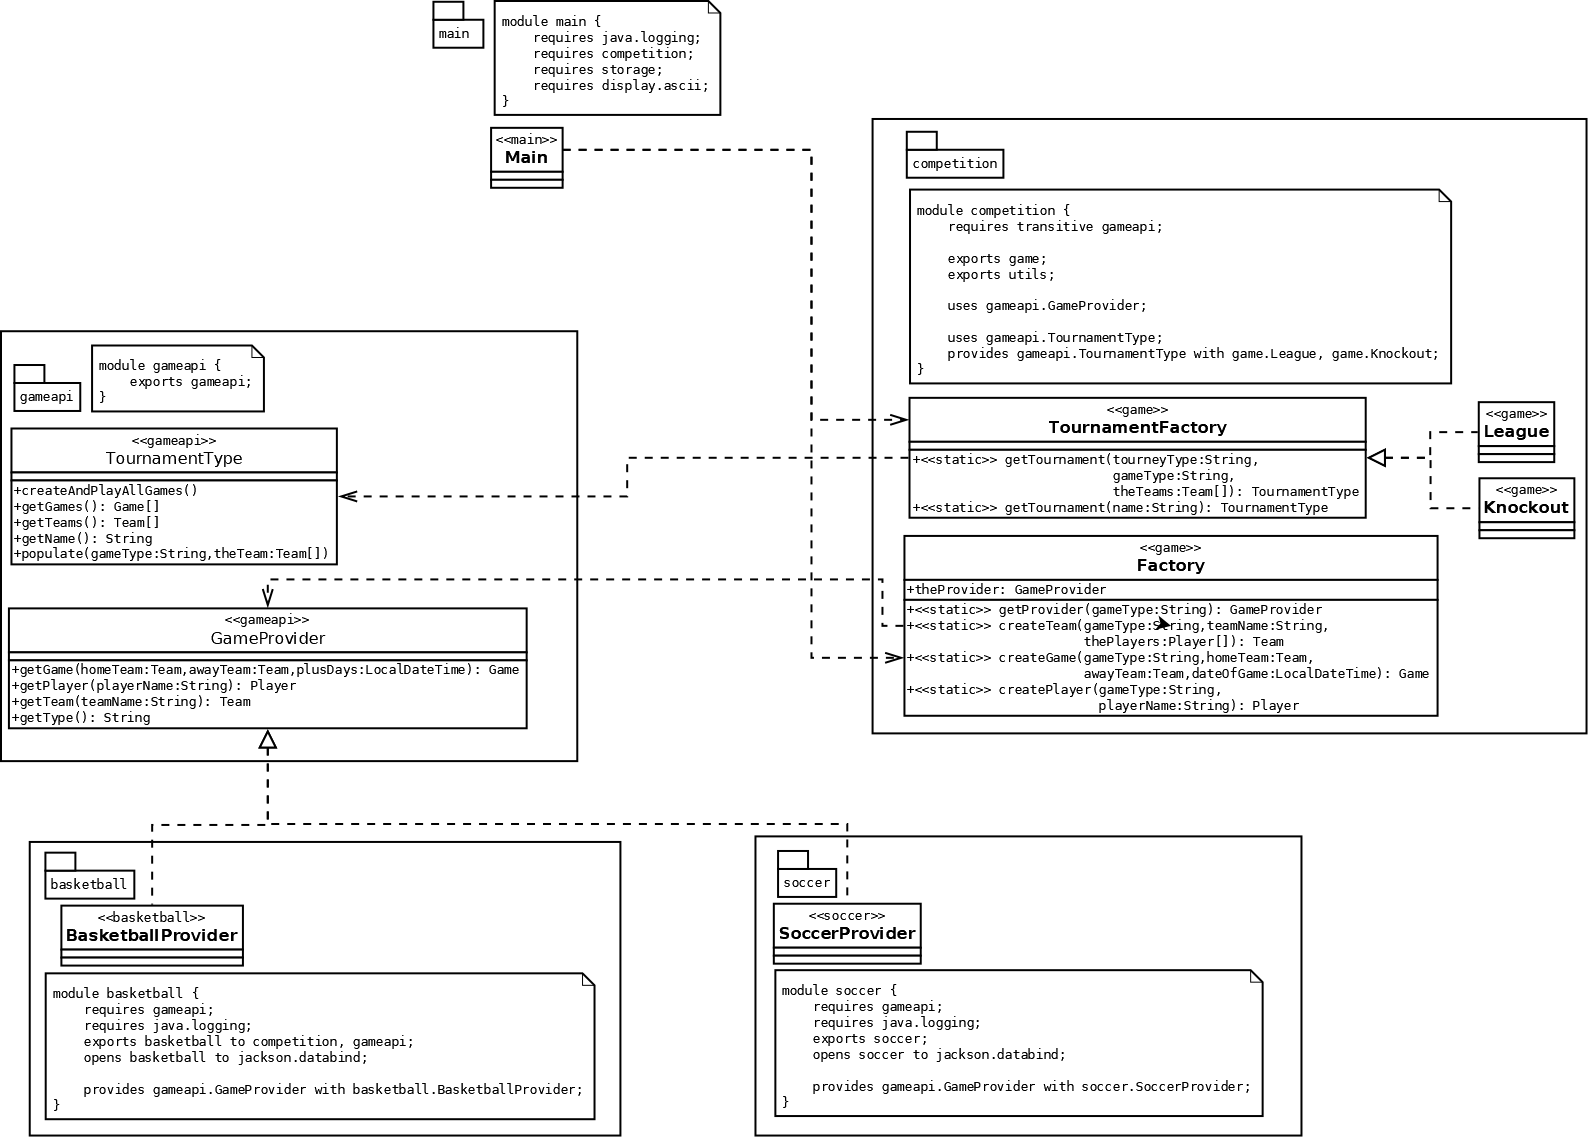
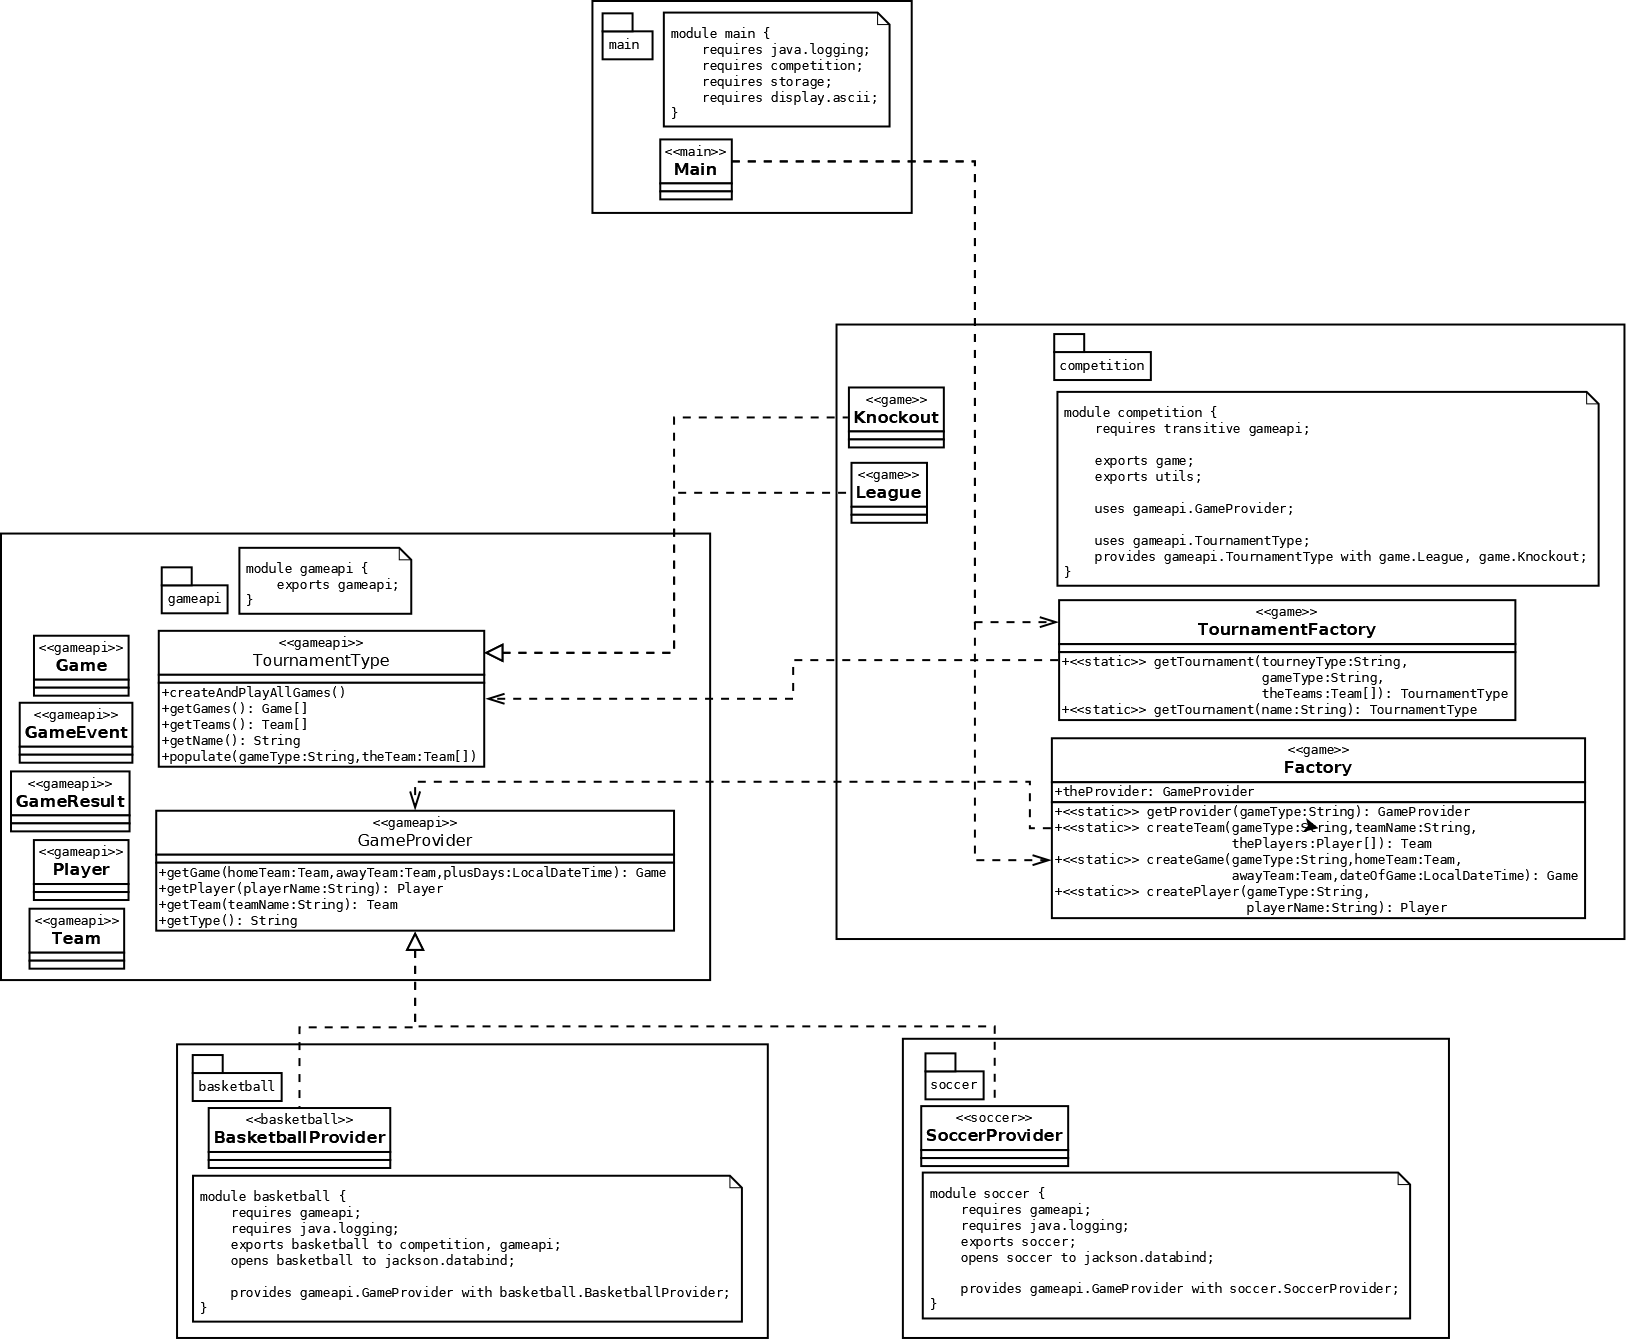
Fixed issues in dia for part2. Added notes for 4.4

diff --git a/src/ocp/study/part04/README.md b/src/ocp/study/part04/README.md
@@ -1038,34 +1038,70 @@ Optional by or(() -> Optional.of(100)) method: Optional[100]
 
 # 4.4 - Perform calculations using count, max, min, average and sum stream operations
 
-Java 8 introduced three **primitive specialized stream interfaces** that support specialized methods (like `max()`, `sum()`, `average()`) to work with streams of numbers: `IntStream`, `DoubleStream`, and `LongStream`, that respectively specialize the elements of a stream to be `int` primitives, `double` primitives, and `long` primitives -- and thereby avoid hidden boxing costs.
+Java 8 introduced three **primitive specialized stream interfaces** that support specialized methods (like `max()`, `sum()`, `average()`) to work with streams of numbers: `IntStream`, `DoubleStream`, and `LongStream`, that respectively specialize the elements of a stream to be `int` primitives, `double` primitives, and `long` primitives -- without using wrappers and thereby avoiding hidden boxing costs. If you want to store `short`, `char`, `byte`, and `boolean`, use an `IntStream`, and for `float`, use a `DoubleStream`.
 
-<img src="../img/note.png" alt="Note" width="20"/> _Note: For `average` and `sum` see section 8.4 as these are performed on `IntStream`._
+<img src="../img/note.png" alt="Note" width="20"/> _Note: See section 8.4 for further details for mapping to and from primitive streams_
+
+When you have a stream of objects, you can transform it to a primitive type stream with the `mapToInt`, `mapToLong`, or `mapToDouble` methods:
+
+````
+Stream<String> words = ...;
+IntStream lengths = words.mapToInt(String::length);
+````
+					
+There are methods `sum()`, `average()`, `max()`, and `min()` that return the sum, average, maximum, and minimum. These methods are defined for `XxxStream` and not defined for `Stream`:
+
+````
+IntStream stream = IntStream.of(2, 4, 6);
+int max = stream.max().getAsInt(); // max() returns OptionalInt
+
+stream = IntStream.of(2, 4, 6);
+int min = stream.min().getAsInt(); // min() returns OptionalInt
+
+stream = IntStream.of(2, 4, 6);
+double average = stream.average().getAsDouble(); // average() returns OptionalDouble
+
+stream = IntStream.of(2, 4, 6);
+int sum = stream.sum(); // sum() returns int
+
+System.out.println("max : " + max);
+System.out.println("min : " + min);
+System.out.println("average : " + average);
+System.out.println("sum : " + sum);
+````
+
+Outputs:
+
+````			
+max : 6
+min : 2
+average : 4.0
+sum : 12
+````
 
 ## `count()`
 
-The `count()` method determines the number of elements in a finite stream. For an infinite
-stream, it hangs. Why? Count from `1` to infinity and let us know when you are finished...  `count()` is a reduction because it looks at each element in the stream and returns a single value. The method signature is this:
+The `count()` method determines the number of elements in a finite stream. For an infinite stream, it hangs. Why? Count from `1` to infinity and let us know when you are finished...  `count()` is a reduction because it looks at each element in the stream and returns a single value. The method signature is this:
 
 `long count()`
 
-This example shows calling `count()` on a finite stream:
+The `count()` method returns a long which is the count of elements in the stream. This example shows calling `count()` on a finite stream:
 
 ````
 Stream<String> s = Stream.of("monkey", "gorilla", "bonobo");
 System.out.println(s.count()); // 3
 ````
 
-## `min()` and `max()`
+## `min(...)` and `max(...)`
 
-The `min()` and `max()` terminal methods allow you to pass a custom `Comparator` and find the smallest or largest value in a finite stream according to that sort order. Like `count()`, `min()` and `max()` hang on an infinite stream because they cannot be sure that a smaller or larger value isn’t coming later in the stream. Both methods are reductions because they return a single value after looking at the entire stream. The method signatures are as follows:
+The `min(...)` and `max(...)` terminal methods allow you to pass a custom `Comparator` and find the smallest or largest value in a finite stream according to that sort order. Like `count()`, `min(...)` and `max(...)` hang on an infinite stream because they cannot be sure that a smaller or larger value isn’t coming later in the stream. Both methods are reductions because they return a single value after looking at the entire stream. The method signatures are as follows:
 
 ````
 Optional<T> min(<? super T> comparator)
 Optional<T> max(<? super T> comparator)
 ````
 
-The `Stream.min()` and `Stream.max()` methods take a `java.util.Comparator` as parameter. This example finds the animal with the fewest letters in its name:
+The `Stream.min(...)` and `Stream.max(...)` methods take a `java.util.Comparator` as parameter. This example finds the animal with the fewest letters in its name:
 
 ````
 Stream<String> s = Stream.of("monkey", "ape", "bonobo");
@@ -1073,18 +1109,14 @@ Optional<String> min = s.min((s1, s2) -> s1.length()—s2.length());
 min.ifPresent(System.out::println); // ape
 ````
 
-Notice that the code returns an `Optional` rather than the value. This allows the method
-to specify that no minimum or maximum was found. We use the `Optional` method and a
-method reference to print out the minimum only if one is found. As an example of where
-there isn’t a minimum, let’s look at an empty stream:
+Notice that the code returns an `Optional` rather than the value. This allows the method to specify that no minimum or maximum was found. We use the `Optional` method and a method reference to print out the minimum only if one is found. As an example of where there isn’t a minimum, let’s look at an empty stream:
 
 ````
 Optional<?> minEmpty = Stream.empty().min((s1, s2) -> 0);
 System.out.println(minEmpty.isPresent()); // false
 ````
 
-Since the stream is empty, the `Comparator` is never called and no value is present in the
-`Optional`. In this case because the `Optional` has no value a call to the `get()` method will throw `NoSuchElementException`.
+Since the stream is empty, the `Comparator` is never called and no value is present in the `Optional`. In this case because the `Optional` has no value a call to the `get()` method will throw `NoSuchElementException`.
 
 The `Comparator.comparing()` method creates a `Comparator` based on the lambda expression passed to it. In fact, the `comparing()` method takes a `Function` which is a functional interface suited for lambda expressions. It takes one parameter and returns a value:
 

diff --git a/src/ocp/study/part02/README.md b/src/ocp/study/part02/README.md
@@ -46,7 +46,7 @@ Since Java 9 you can develop Services and Service Providers as modules. A servic
 
 - **ServiceLoader**
 
-  - At the heart of the SPI is the ServiceLoader class. This has the role of discovering and loading implementations lazily. It uses the context classpath to locate providers implementations and put them in an internal cache.
+  - At the heart of the SPI is the `ServiceLoader` class. This has the role of discovering and loading implementations lazily. It uses the context classpath to locate providers implementations and put them in an internal cache.
 
 ## Service Module
 
@@ -389,9 +389,9 @@ module competition {
 }
 ````
 
-Note also that `competition` `uses gameapi.GameProvider` and `uses gameapi.TournamentType`. The module that discovers and loads service providers must contain this directive in its declaration. `uses` is necessary as the `ServiceLoader` needs reflection access.
+Note also that `competition` `uses gameapi.GameProvider` and `uses gameapi.TournamentType`. The module that discovers and loads service providers must contain this directive in its declaration. This helps to locate providers and ensure they will execute reliably during run time.
 
-The `ServiceLoader` is invoked in both factories (`Factory` used to get the `GameProvider` and `TournamentFactory` used to get the `TournamentType`). 
+The `ServiceLoader` is invoked in both factories ([`Factory`](https://github.com/rysharprules/Java-SE11-Upgrade-Exam/blob/master/src/ocp/study/part02/game/src/competition/game/Factory.java) used to get the `GameProvider` and [`TournamentFactory`](https://github.com/rysharprules/Java-SE11-Upgrade-Exam/blob/master/src/ocp/study/part02/game/src/competition/game/TournamentFactory.java) used to get the `TournamentType`). 
 
 Let's look at `Factory.getProvider(...)` first. This is called indirectly when `Main` calls `Factory.createTeam(...)`.
 

diff --git a/README.md b/README.md
@@ -71,6 +71,7 @@ _This documentation is an aggregation of multiple sources and is intended as a s
 
 ## Bibliography and Resources
 
+- [Oracle JLS - Chapter 7. Packages and Modules](https://docs.oracle.com/javase/specs/jls/se11/html/jls-7.html#jls-7.1)
+- [Project Jigsaw](https://openjdk.java.net/projects/jigsaw/) 
+- [`ServiceLoader` JavaDoc](https://docs.oracle.com/javase/9/docs/api/java/util/ServiceLoader.html)
 - [Study Guide from java.boot.by](http://java.boot.by/ocpjd11-upgrade-guide/index.html)
-- [Project Jigsaw](https://openjdk.java.net/projects/jigsaw/)
-- [Oracle JLS - Chapter 7. Packages and Modules](https://docs.oracle.com/javase/specs/jls/se11/html/jls-7.html#jls-7.1)  
